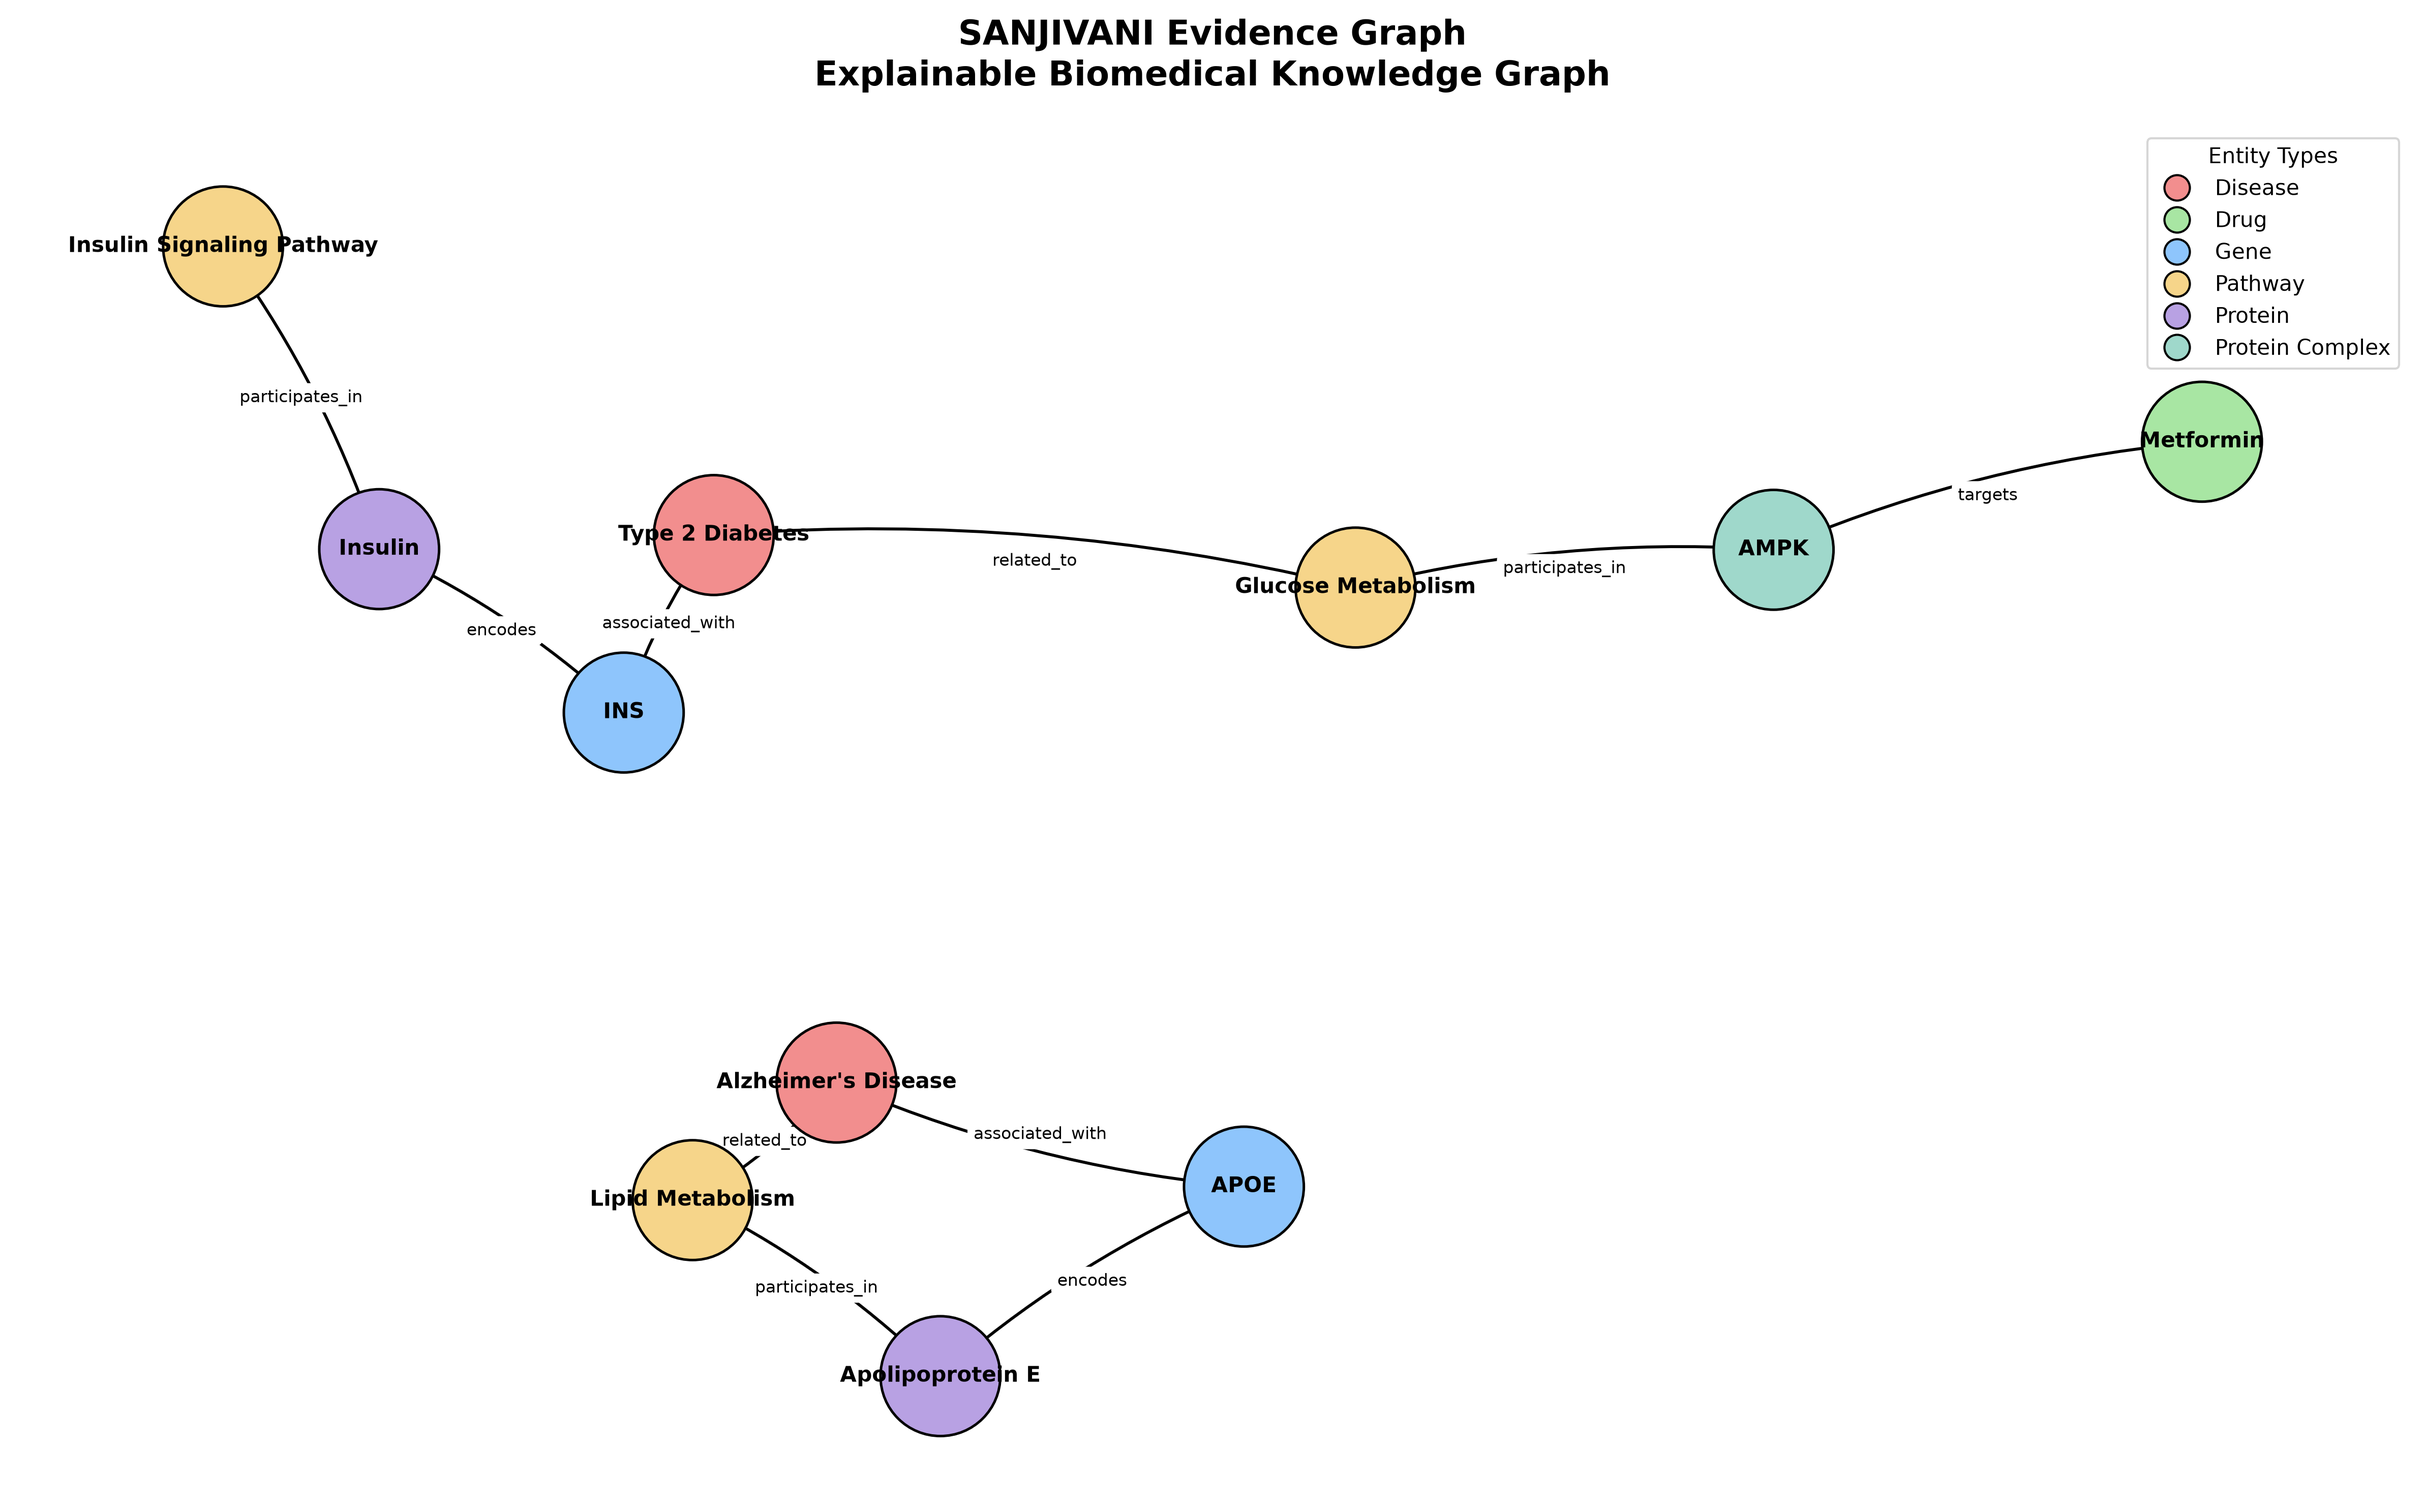
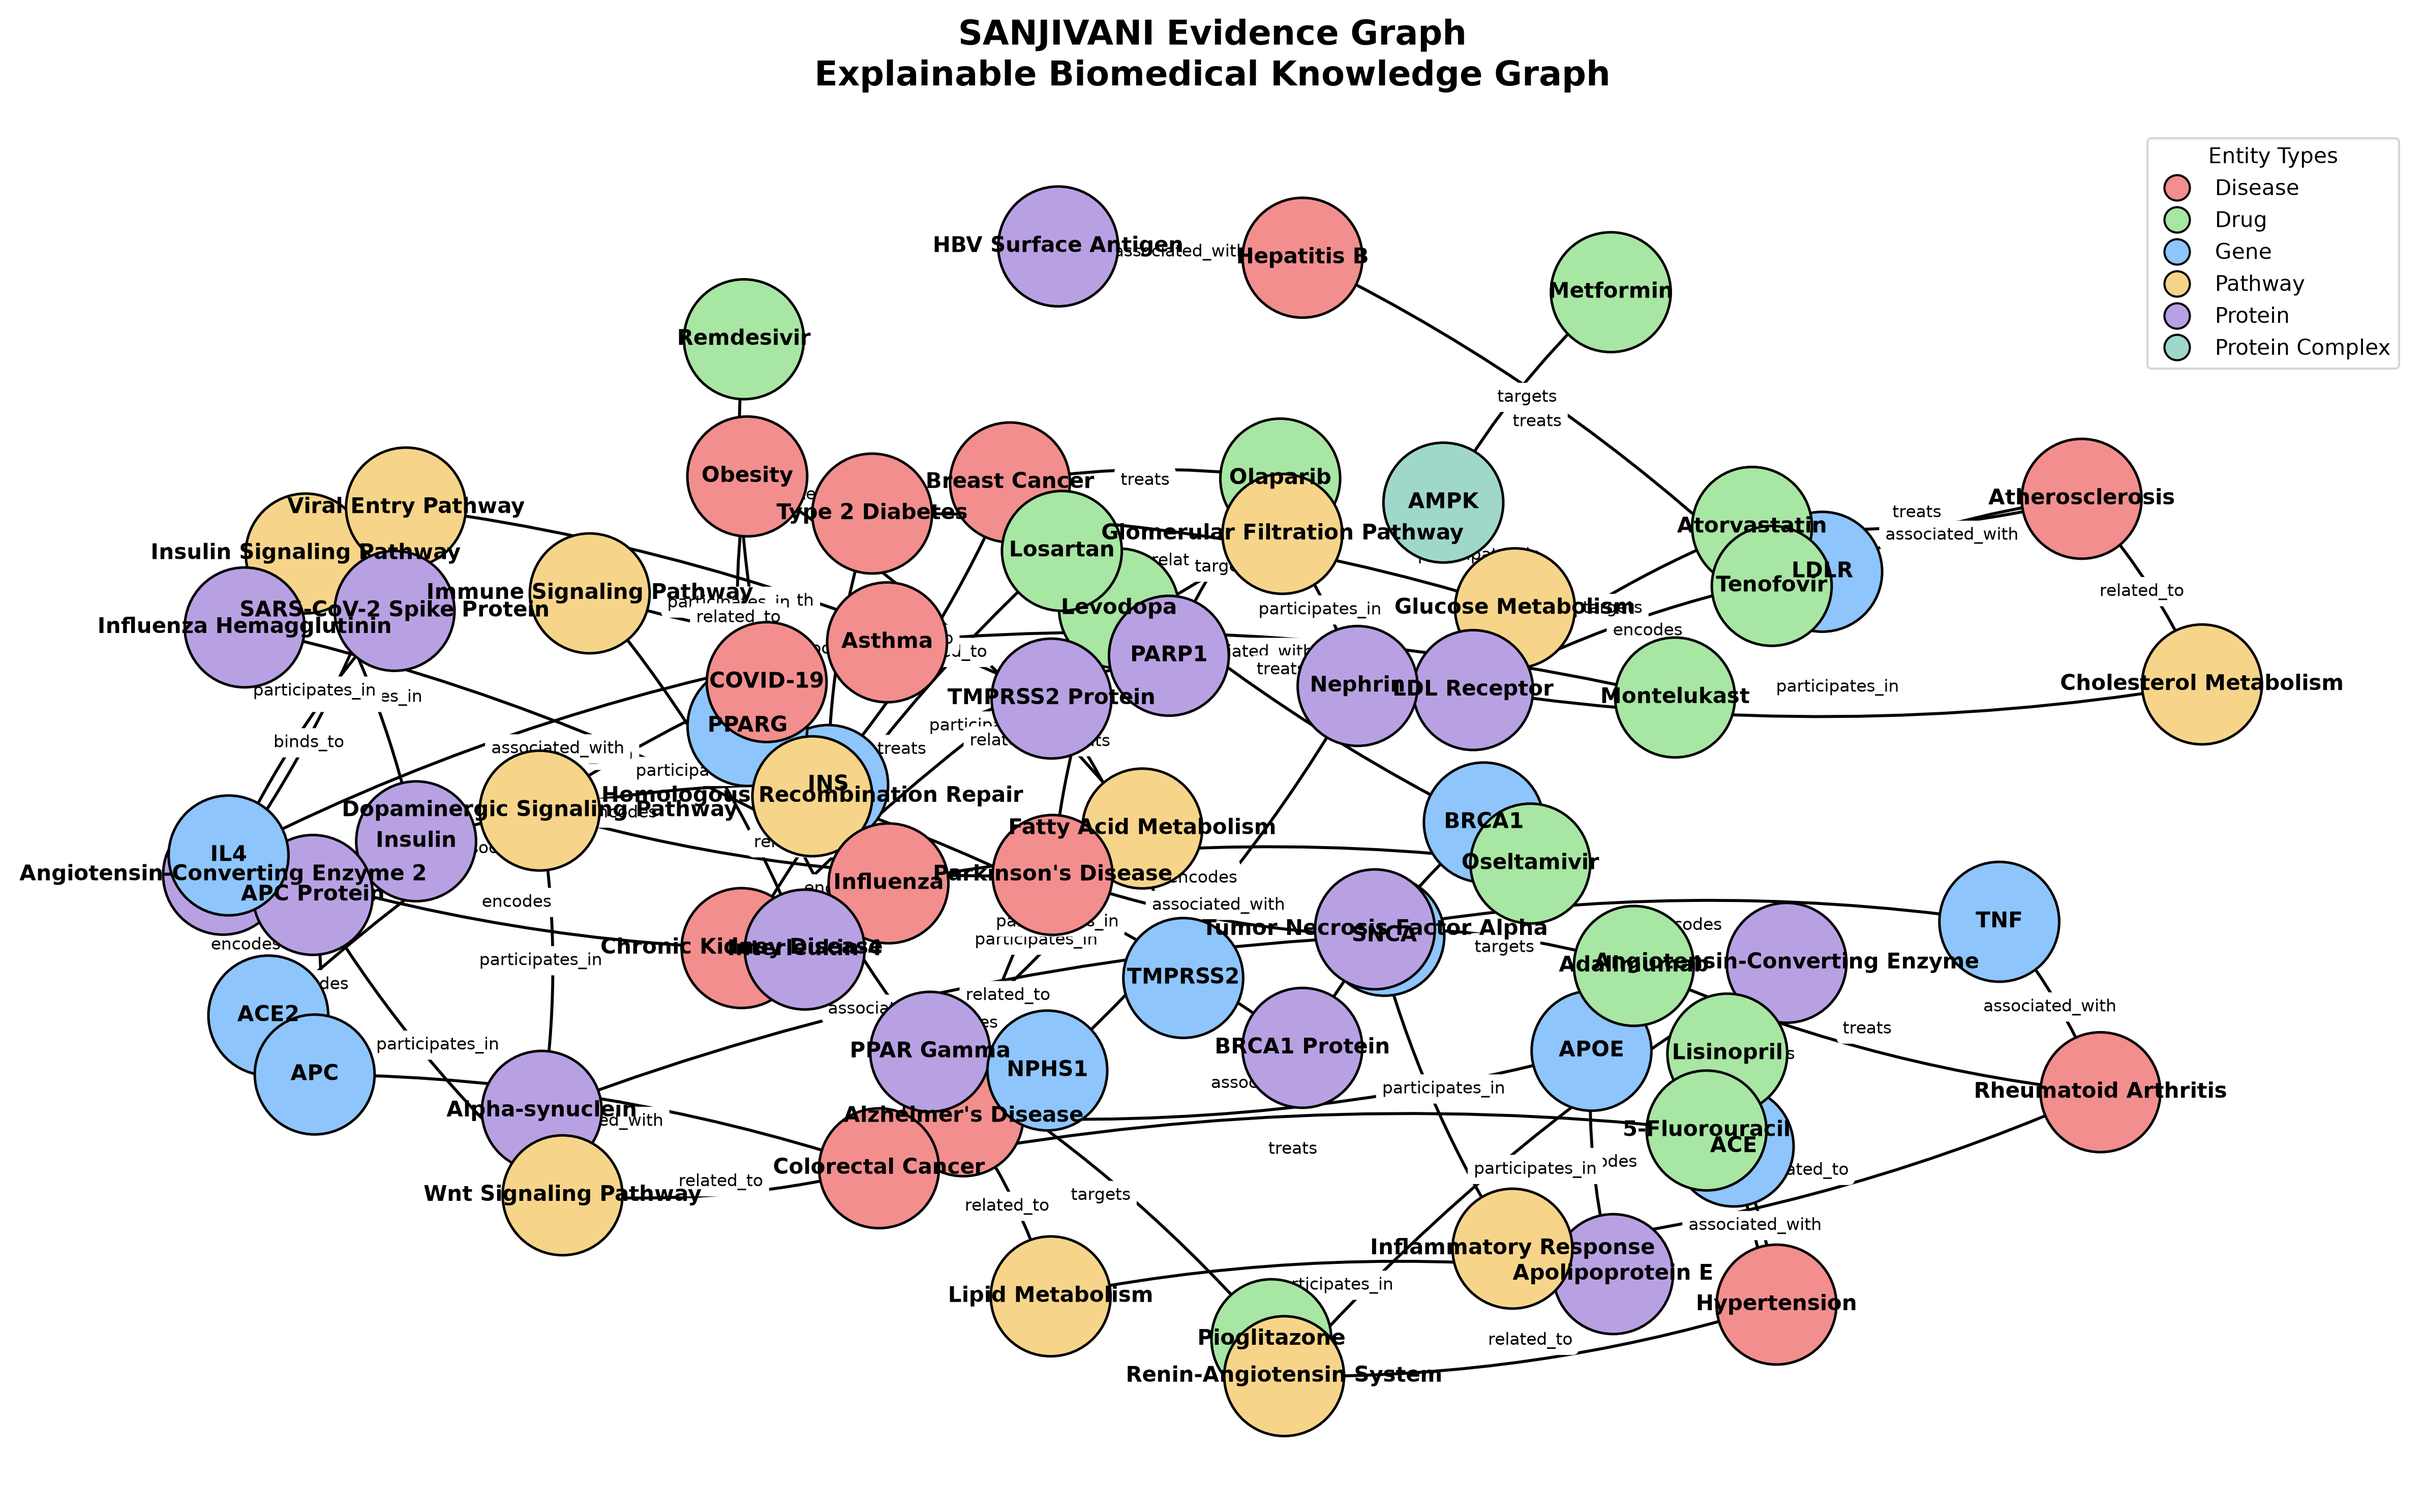
Add graph analytics dashboard

diff --git a/src/graph_analytics.py b/src/graph_analytics.py
@@ -1,0 +1,226 @@
+from collections import Counter
+from typing import Any
+
+
+def count_entity_types(
+    graph,
+    entity_types,
+) -> dict[str, int]:
+    """Count the biomedical entities belonging to each type."""
+
+    type_counts: Counter[str] = Counter()
+
+    for entity in graph.get_entities():
+        entity_type = entity_types.get(
+            entity,
+            "Unknown",
+        )
+
+        type_counts[str(entity_type)] += 1
+
+    return dict(
+        sorted(
+            type_counts.items(),
+            key=lambda item: item[0].lower(),
+        )
+    )
+
+
+def get_top_connected_entities(
+    graph,
+    limit: int = 5,
+) -> list[tuple[str, int]]:
+    """Return the entities with the highest number of connections."""
+
+    if limit <= 0:
+        return []
+
+    ranked_entities = []
+
+    for entity, connections in graph.adjacency.items():
+        ranked_entities.append(
+            (
+                str(entity),
+                len(connections),
+            )
+        )
+
+    ranked_entities.sort(
+        key=lambda item: (
+            -item[1],
+            item[0].lower(),
+        )
+    )
+
+    return ranked_entities[:limit]
+
+
+def get_top_entities_by_type(
+    graph,
+    entity_types,
+    requested_type: str,
+    limit: int = 5,
+) -> list[tuple[str, int]]:
+    """Return the most connected entities of one biomedical type."""
+
+    if limit <= 0:
+        return []
+
+    matching_entities = []
+
+    for entity, connections in graph.adjacency.items():
+        entity_type = entity_types.get(
+            entity,
+            "Unknown",
+        )
+
+        if entity_type.casefold() == requested_type.casefold():
+            matching_entities.append(
+                (
+                    entity,
+                    len(connections),
+                )
+            )
+
+    matching_entities.sort(
+        key=lambda item: (
+            -item[1],
+            item[0].lower(),
+        )
+    )
+
+    return matching_entities[:limit]
+
+
+def calculate_graph_density(graph) -> float:
+    """Calculate density for the undirected biomedical graph."""
+
+    total_entities = len(graph.adjacency)
+    total_relationships = len(graph.relationships)
+
+    if total_entities < 2:
+        return 0.0
+
+    maximum_relationships = (
+        total_entities * (total_entities - 1)
+    ) / 2
+
+    density = total_relationships / maximum_relationships
+
+    return round(
+        density,
+        4,
+    )
+
+
+def calculate_average_degree(graph) -> float:
+    """Calculate the average number of connections per entity."""
+
+    total_entities = len(graph.adjacency)
+
+    if total_entities == 0:
+        return 0.0
+
+    total_degree = sum(
+        len(connections)
+        for connections in graph.adjacency.values()
+    )
+
+    return round(
+        total_degree / total_entities,
+        2,
+    )
+
+
+def calculate_graph_statistics(
+    graph,
+    entity_types,
+) -> dict[str, Any]:
+    """Calculate a statistical summary of SANJIVANI."""
+
+    return {
+        "total_entities": len(graph.adjacency),
+        "total_relationships": len(graph.relationships),
+        "entity_types": count_entity_types(
+            graph,
+            entity_types,
+        ),
+        "average_degree": calculate_average_degree(graph),
+        "graph_density": calculate_graph_density(graph),
+        "top_connected_entities": get_top_connected_entities(
+            graph,
+            limit=5,
+        ),
+    }
+
+
+def display_graph_analytics(
+    graph,
+    entity_types,
+) -> None:
+    """Display a readable graph analytics report."""
+
+    statistics = calculate_graph_statistics(
+        graph,
+        entity_types,
+    )
+
+    print("\nSANJIVANI Graph Analytics")
+    print("=" * 40)
+
+    print(
+        f"Total biomedical entities: "
+        f"{statistics['total_entities']}"
+    )
+
+    print(
+        f"Total relationships: "
+        f"{statistics['total_relationships']}"
+    )
+
+    print(
+        f"Average entity degree: "
+        f"{statistics['average_degree']}"
+    )
+
+    print(
+        f"Graph density: "
+        f"{statistics['graph_density']}"
+    )
+
+    print("\nEntities by type")
+    print("-" * 40)
+
+    entity_type_counts = statistics["entity_types"]
+
+    if entity_type_counts:
+        for entity_type, count in entity_type_counts.items():
+            print(
+                f"{entity_type}: {count}"
+            )
+    else:
+        print("No typed entities are available.")
+
+    print("\nMost connected entities")
+    print("-" * 40)
+
+    top_entities = statistics[
+        "top_connected_entities"
+    ]
+
+    if top_entities:
+        for rank, (
+            entity,
+            connection_count,
+        ) in enumerate(
+            top_entities,
+            start=1,
+        ):
+            print(
+                f"{rank}. {entity} — "
+                f"{connection_count} connections"
+            )
+    else:
+        print("No connected entities are available.")
+
+    print("=" * 40)

diff --git a/main.py b/main.py
@@ -2,6 +2,7 @@ import csv
 
 from src.data_validator import validate_dataset
 from src.entity_loader import load_entity_types
+from src.graph_analytics import display_graph_analytics
 from src.graph_builder import BiomedicalGraph
 from src.graph_visualizer import create_graph_visualization
 from src.version import __version__
@@ -199,7 +200,8 @@ def main():
         print("2. Find a path between two entities")
         print("3. Show all available entities")
         print("4. Generate graph visualization")
-        print("5. Exit")
+        print("5. Graph analytics")
+        print("6. Exit")
 
         choice = input("\nSelect an option: ").strip()
 
@@ -250,13 +252,19 @@ def main():
             )
 
         elif choice == "5":
+            display_graph_analytics(
+    graph,
+    entity_types,
+)
+
+        elif choice == "6":
             print("\nExiting SANJIVANI. Goodbye!")
             break
 
         else:
             print(
                 "\nInvalid option. "
-                "Please select 1, 2, 3, 4, or 5."
+                "Please select an option from 1 to 6."
             )
 
 
